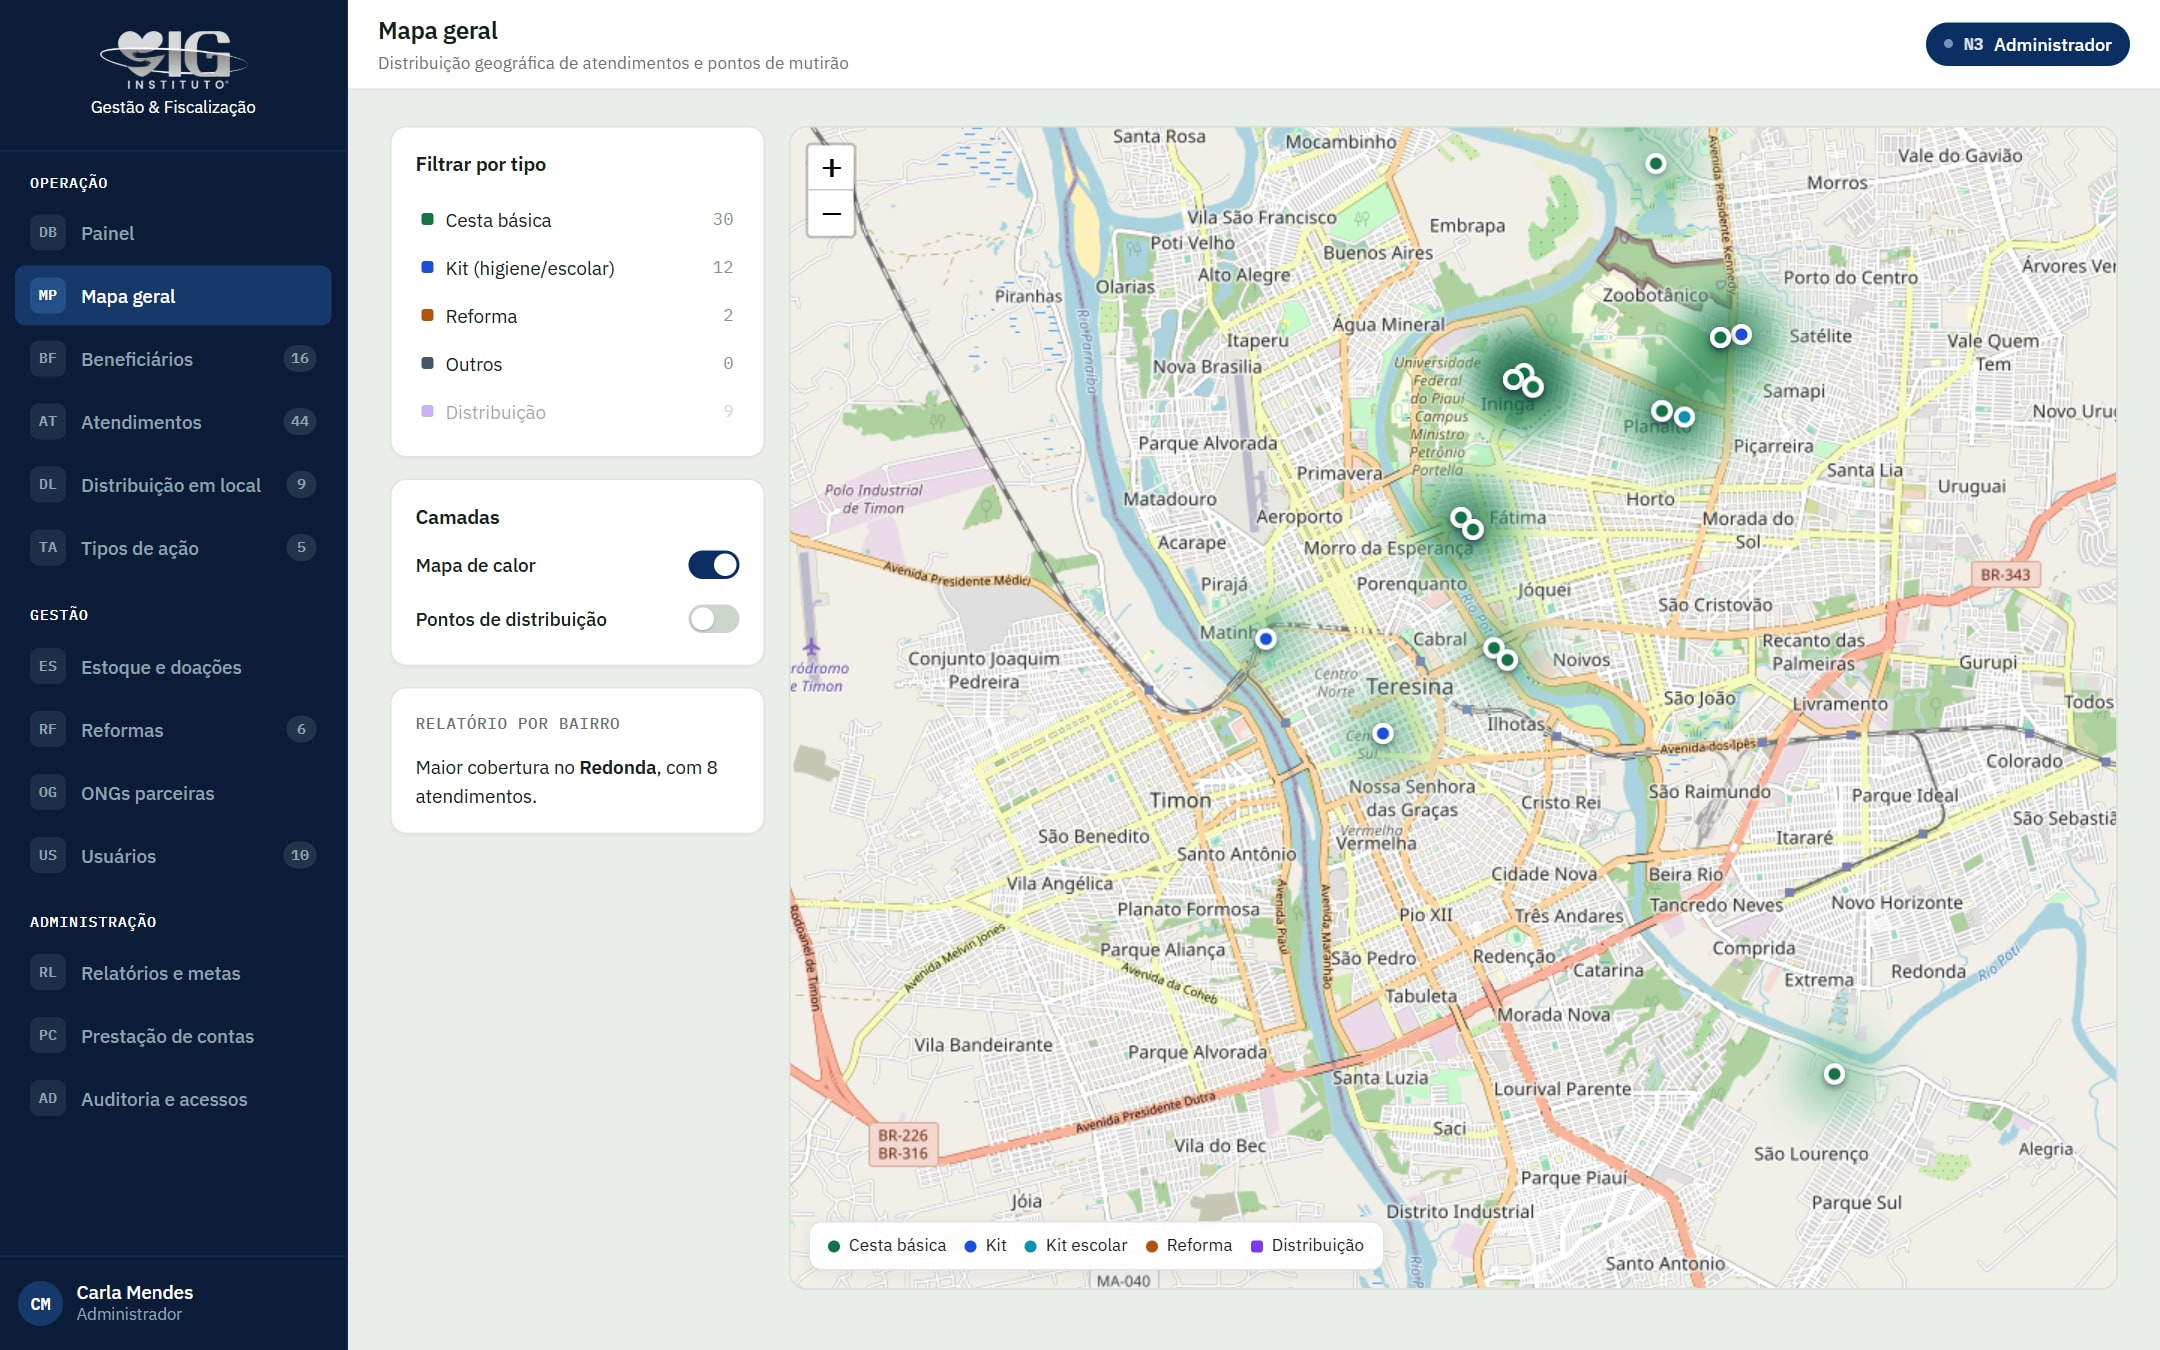
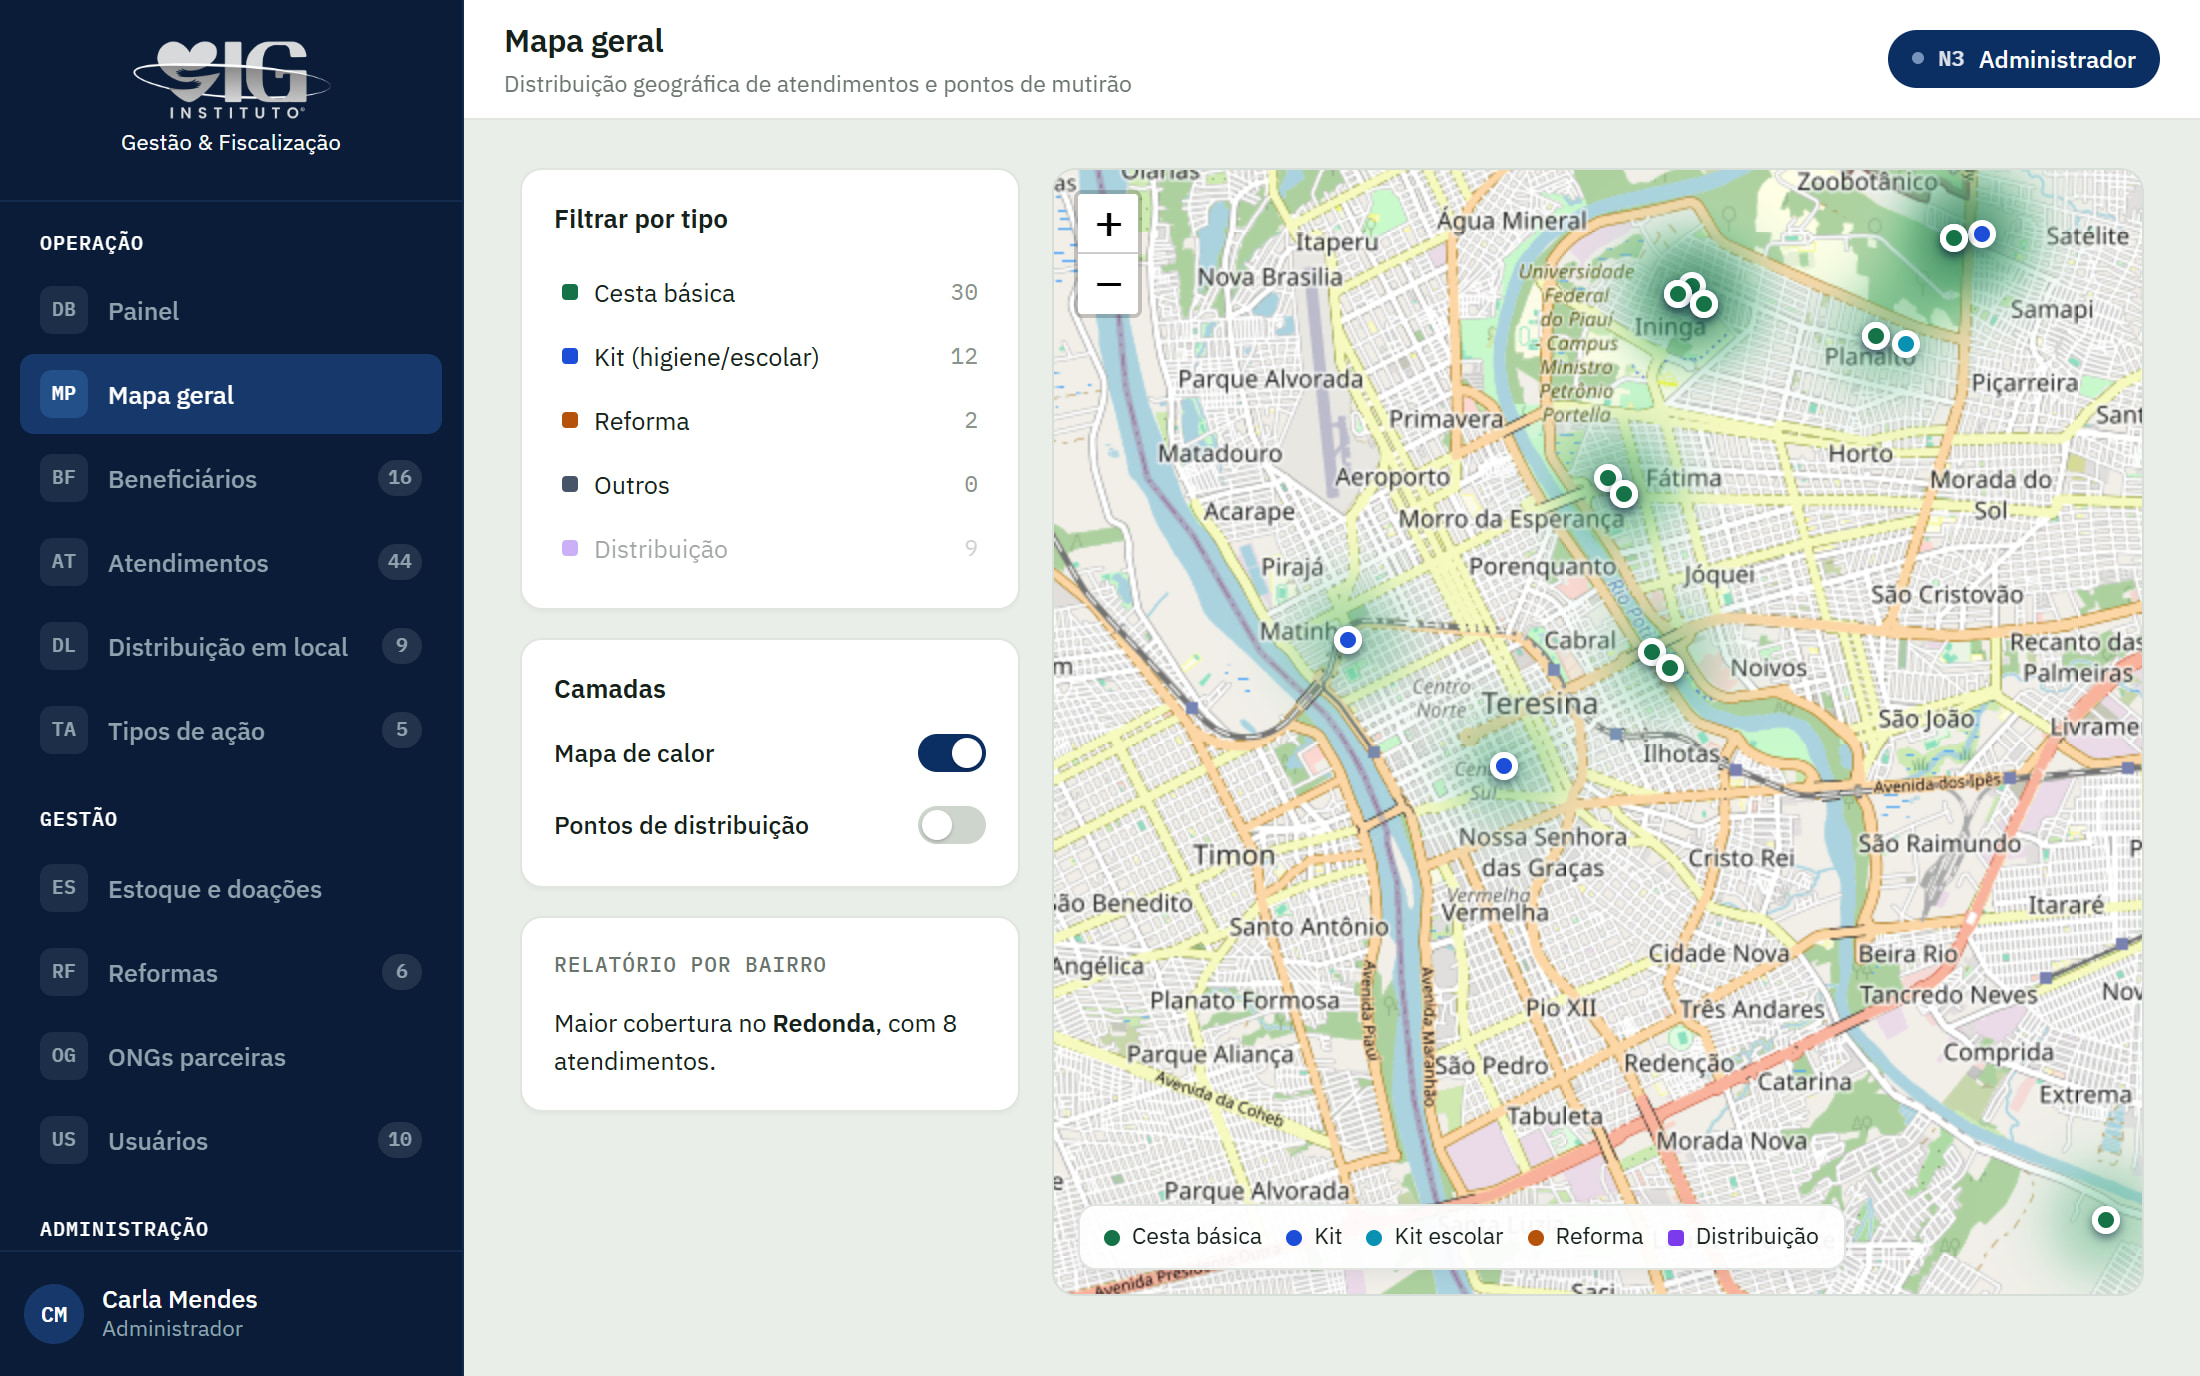
melhora a nitidez dos prints dos projetos
Prints refeitos em 2x com a interface na largura em que é exibida, WebP e JPEG com qualidade 90 sem subamostragem de cor, e srcset com versões maiores para telas de alta densidade.

diff --git a/src/config/site.ts b/src/config/site.ts
@@ -1,13 +1,13 @@
 export const site = {
   name: 'George',
-  surname: '[SOBRENOME]',
+  surname: 'Peixoto',
   role: 'Desenvolvedor web',
   city: 'Parnaíba',
   state: 'PI',
   stateName: 'Piauí',
   country: 'BR',
-  whatsapp: '[PREENCHER]',
-  email: '[PREENCHER]',
+  whatsapp: 'http://wa.me/+5586994767818',
+  email: 'georgepxto@gmail.com',
   github: 'georgepxto',
   siteUrl: '[PREENCHER]',
 } as const;

diff --git a/astro.config.ts b/astro.config.ts
@@ -8,4 +8,13 @@ export default defineConfig({
   site: siteUrl,
   output: 'static',
   integrations: [sitemap()],
+  image: {
+    service: {
+      entrypoint: 'astro/assets/services/sharp',
+      config: {
+        webp: { quality: 90, smartSubsample: true, effort: 6 },
+        jpeg: { quality: 90, mozjpeg: true, chromaSubsampling: '4:4:4' },
+      },
+    },
+  },
 });
